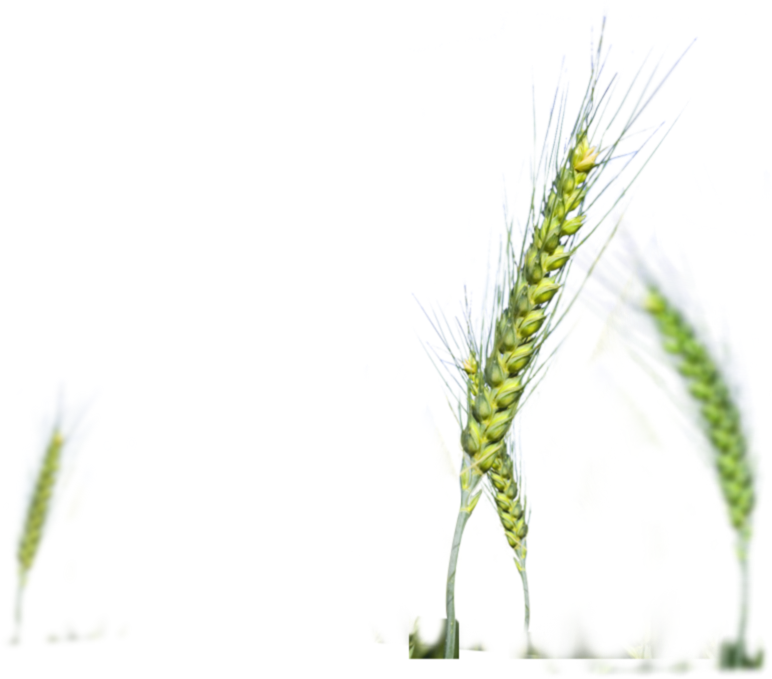
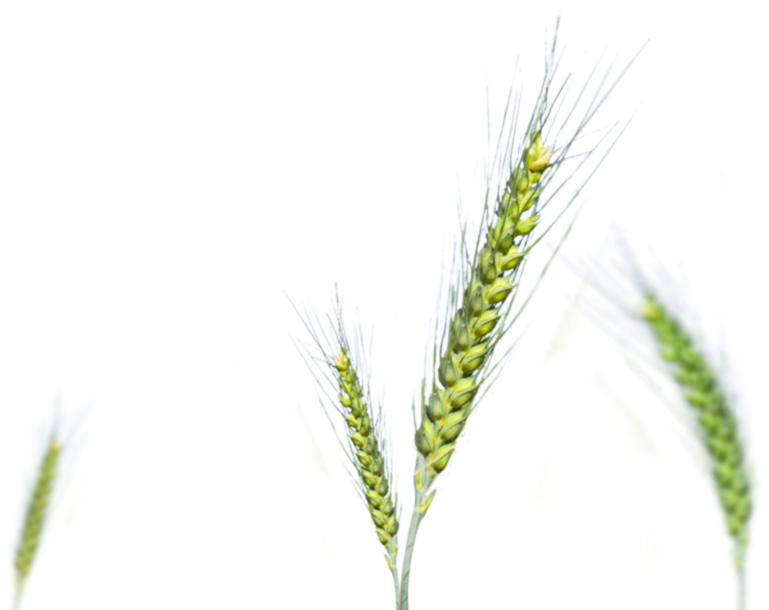
update

Changed region(s): [[0.4057, 0.0623, 0.9987, 1.0], [0.0, 0.623, 0.0936, 1.0]]

diff --git a/js/action.js b/js/action.js
@@ -10,32 +10,49 @@ $(function() {
 	var $body = $("body"),
 		$logo = $("#logo"),
 		$phone0 = $("#phone0"),
-		$phone1 = $("#phone1"),
+		$appicons = $("#appicons"),
+		$intro2 = $("#intro2"),
+		$phone1 = $("#wphone"),
 		$functions = $("#functions"),
 		$wheatear = $("#wheatear"),
+		$polygon = $("#polygon"),
 		$st2 = $(".st_2");
 
 	Tween.from($logo, 0.5, { "margin-left":"100px", opacity: 1 });
 	window.steps = [
 		function step0() {
 			Tween.to($body, 0.5, { "scrollTop": 0 });
+			Tween.to($appicons, 1, { top: "0" });
 			Tween.to($phone0, 1, { opacity: 1, top: "200px", yoyo: true });
 		},
 		function step1() {
+			Tween.to($appicons, 0.2, { top: "-500px" });
+			Tween.to($phone0, 2, { opacity: 0, top: -partHeight + "px"});
 			Tween.to($st2, 1, { opacity: 1, yoyo: true });
-			Tween.to($phone0, 1, { opacity: 0, top: -partHeight + "px", yoyo: true});
-			Tween.to($functions, 2, { opacity: 1, top: "50%", "margin-top": "-320px" });
-			Tween.from($wheatear, 1, { opacity: 0, top: "-500px"});
+			Tween.to($functions, 2, { opacity: 0.8, top: "50%", "margin-top": "-320px" });
+			Tween.to($intro2, 1, { opacity: 0, yoyo: true, top: "100%" });
+			
+			Tween.to($wheatear, 1, { opacity: 1, bottom: 0 });
+			Tween.to($polygon, 1, { opacity: 0, top:"100%", "margin-top": "-250px" });
 		},
 		function step2() {
 			Tween.to($st2, 1, { opacity: 0.8, yoyo: true });
 			Tween.to($functions, 2, { opacity: 0, yoyo: true, "top": "-200px" });
 			Tween.to($phone1, 1, { opacity: 0, yoyo: true, skewX: "0" });
+			Tween.to($intro2, 1, { opacity: 1, yoyo: true, top: "200px" });
+			
+			Tween.to($wheatear, 1, { opacity: 0, bottom: "500px", yoyo: true });
+			Tween.to($polygon, 1, { opacity: 1, top: "0%" });
+			Tween.to( $(".wphone"), 2, { opacity: 0 });
 		},
 		function step3() {
 			Tween.to($phone1, 1, { opacity: 1, yoyo: true, skewX: "-30deg", transformOrigin: "0% 100%" });
+			Tween.staggerTo( $(".wphone"), 2, { opacity: 1 }, 0.5);
+			Tween.to($polygon, 1, { opacity: 1, top: "0%" });
 		},
 		function step4() {
+			Tween.to( $(".wphone"), 2, { opacity: 0 });
+			Tween.to($polygon, 1, { opacity: 0, top: "-200%" });
 			Tween.to($phone1, 1, { opacity: 0, yoyo: true });
 		}
 	];
@@ -74,7 +91,7 @@ $(function() {
 		
 		// Scroll page smoothly
 		// $("body").scrollTop(pageDeltas[nowPage] * partHeight);
-		TweenLite.to( $("body"), 1, { scrollTop: pageDeltas[nowPage] * partHeight });
+		TweenLite.to( $("body"), 1, { scrollTop: pageDeltas[nowPage] * partHeight, delay: 0.1 });
 		switchStage(nowPage);
 		
 		return false;

diff --git a/index.html b/index.html
@@ -31,14 +31,15 @@
 					Numerous wallpapers and exquisite themes allowing you to personalize your phone
 				</p>
 			</div>
+			<img src="img/appicons.png" alt="" class="appicons" id="appicons" />
 		</div>
 	</div>
 	<div class="bg st_1 st_2">
 		<div class="bd">
 			<img src="img/functions.png" alt="Functions of C Launcher" id="functions" class="functions transparent" />
-			<div class="intro-text">
+			<div id="intro2" class="intro-text">
 				<h1 class="text-right">C-<br/>Launcher</h1>
-				<p>
+				<p class="text-right">
 					C Launcher helps users to optimize and beautify their phones, and aims to become the best phone desktop application in the world. It provides users with various functions, such as phone themes, security tools, shortcut functions, cool screen gestures, amazing wallpapers and ringtones, personal customizations and more.
 				</p>
 			</div>
@@ -47,7 +48,20 @@
 	</div>
 	<div class="bg st_3">
 		<div class="bd">
-			<img src="img/phone_white.png" id="phone1" class="phone1 transparent absolute">
+			<div id="intro3" class="intro-text">
+				<h1>System<br/>Optimization</h1>
+				<p>
+					Features an improved desktop menu, which is more convenient than ever  <br/>
+Gesture operation has been added, for both increased simplicity and utility
+
+				</p>
+			</div>
+			<div class="wphone-imgs">
+				<img src="img/wphone0.png" id="wphone0" class="wphone">
+				<img src="img/wphone1.png" id="wphone1" class="wphone">
+				<img src="img/wphone2.png" id="wphone2" class="wphone">
+				<img src="img/wphone3.png" id="wphone3" class="wphone">
+			</div>
 		</div>
 	</div>
 	<div class="bg st_4">
@@ -67,6 +81,10 @@
 				</a>
 			</p>
 		</div>
+	</div>
+	
+	<div class="text-center">
+		<img src="img/polygon.png" alt="" class="polygon" id="polygon">
 	</div>
 	
 	<script src="js/jquery-1.10.2.min.js"></script>

diff --git a/css/main.css b/css/main.css
@@ -1,7 +1,7 @@
 html {
 	width: 100%;
 	height: 100%;
-/*	overflow: hidden;*/
+	overflow: hidden;
 	padding-top: 37px;
 }
 
@@ -37,7 +37,9 @@ html {
 	margin-left: -480px;
 */
 }
-
+.intro-text {
+	color: #000;
+}
 /* The last page style */
 .last-page {
 	margin-top: 200px;
@@ -62,11 +64,19 @@ html {
 	top: 200px;
 }
 
+.appicons {
+	position: absolute;
+	top: -200px;
+	left: -380px;
+	z-index: 10;
+}
+
 .st_0 .intro-text {
 	width: 480px;
 	top: 200px;
 	position: absolute;
 	font-family: Microsoft Yahei;
+	z-index: 15;	
 }
 .st_0 .intro-text h1 {
 	font-size: 84px;
@@ -78,9 +88,30 @@ html {
 	font-size: 24px;
 }
 
+
+
 .st_2 .intro-text {
+	position: absolute;
+	top: 200px;
+	left: 300px;
 	width: 500px;
+	opacity: 0;
+	font-family: Microsoft Yahei;
 }
+.st_2 .intro-text h1 {
+	font-size: 96px;
+	line-height: 1em;
+}
+.st_2 .intro-text p {
+	display: block;
+	width: 360px;
+	font-size: 24px;
+	float: right;
+	line-height: 1em;
+	margin-top: 20px;
+}
+
+
 .functions {
 	top: 50%;
 	left: 50%;
@@ -88,13 +119,50 @@ html {
 	margin-left: -440px;
 	margin-top: -320px;
 	z-index: 15;
+	box-shadow: #454545 2px 2px 1px;
+	opacity: 0.8;
 }
 .wheatear {
 	position: absolute;
-	bottom: 0;
 	right: 0;
+	bottom: 500px;
+	opacity: 0;
 	z-index: 10;
 }
+.polygon {
+	position: fixed;
+	top: 100%;
+	left: 50%;
+	margin-left: -840px;
+	opacity: 0;
+}
+
+.wphone-imgs {
+	position: absolute;
+	top: 40px;
+	left: 500px;
+}
+.wphone {
+	position: absolute;
+	left: 0; top: 0;
+	opacity: 0;
+}
+.st_3 .intro-text {
+	position: absolute;
+	top: 400px;
+	left: 50px;
+	font-family: Microsoft Yahei;
+}
+.st_3 .intro-text h1 {
+	font-size: 56px;
+}
+.st_3 .intro-text p {
+	display: block;
+	width: 400px;
+	margin: 20px 40px;
+	font-size: 24px;
+}
+
 
 /*Background Style*/
 .bg {
